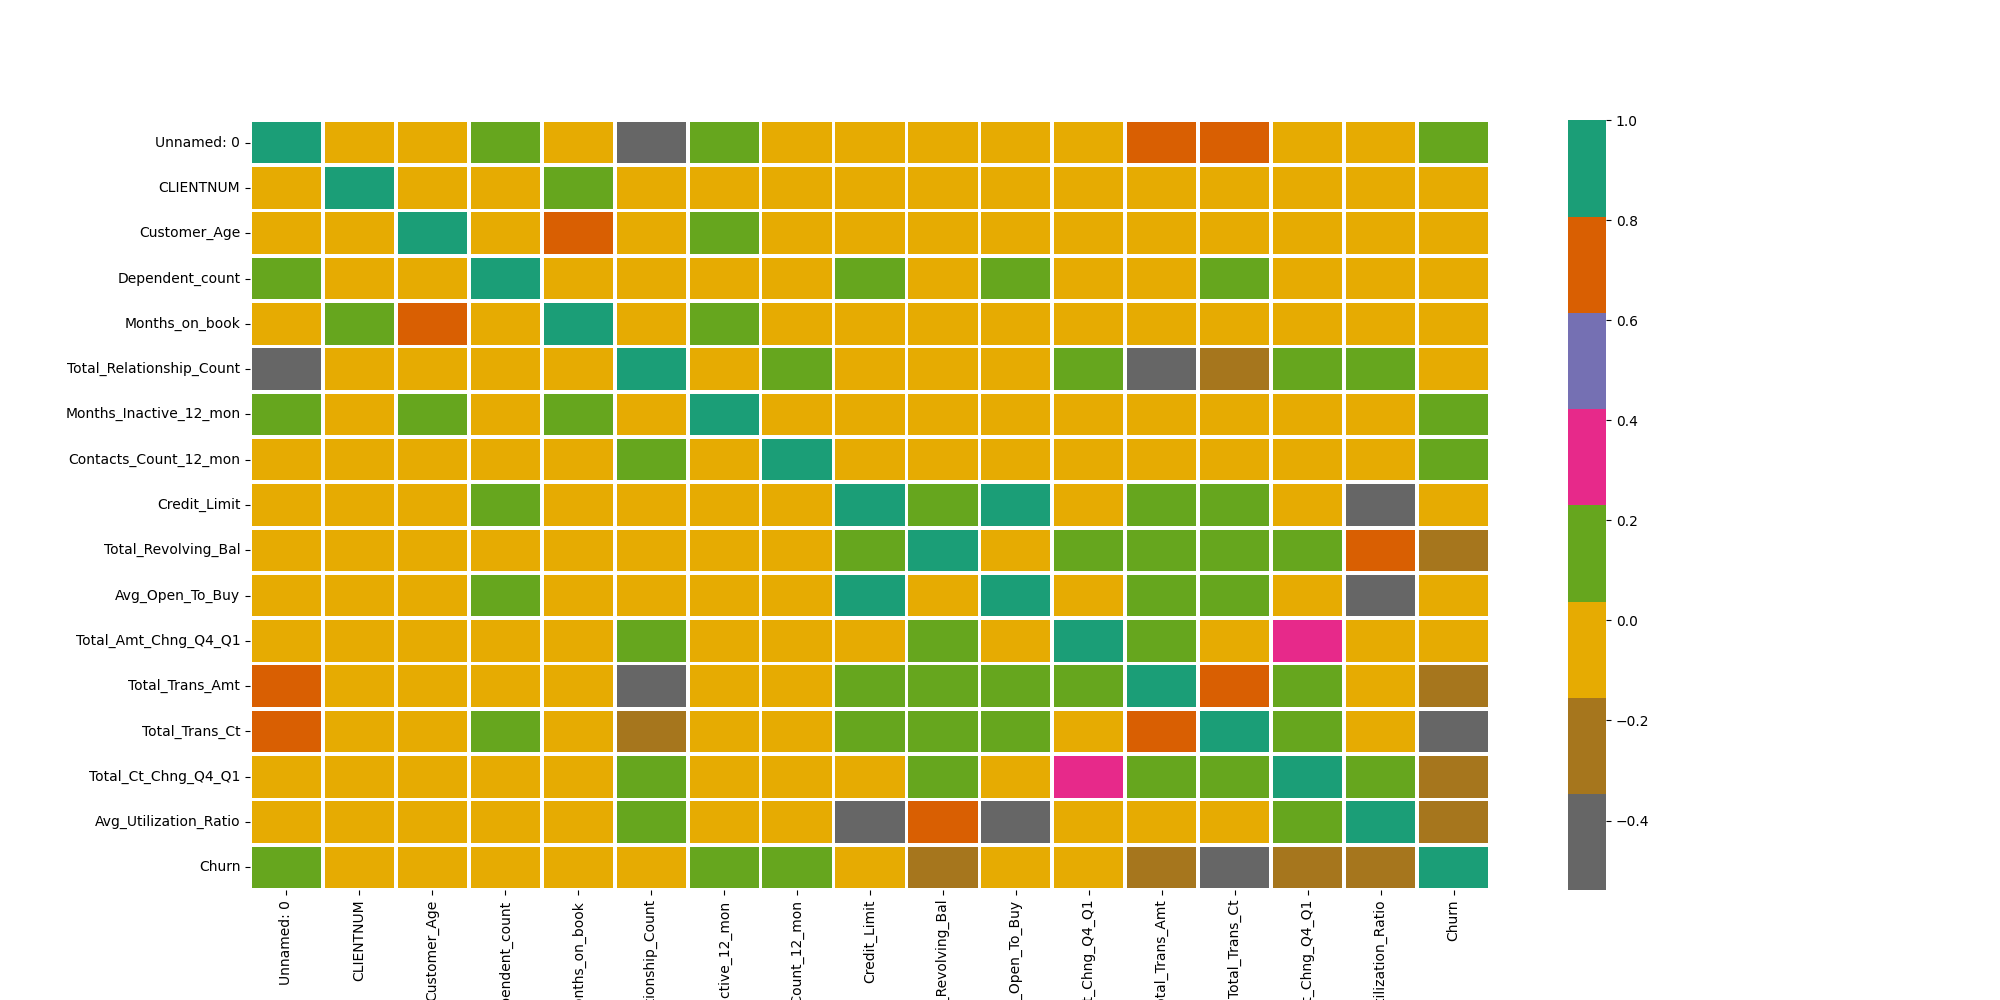
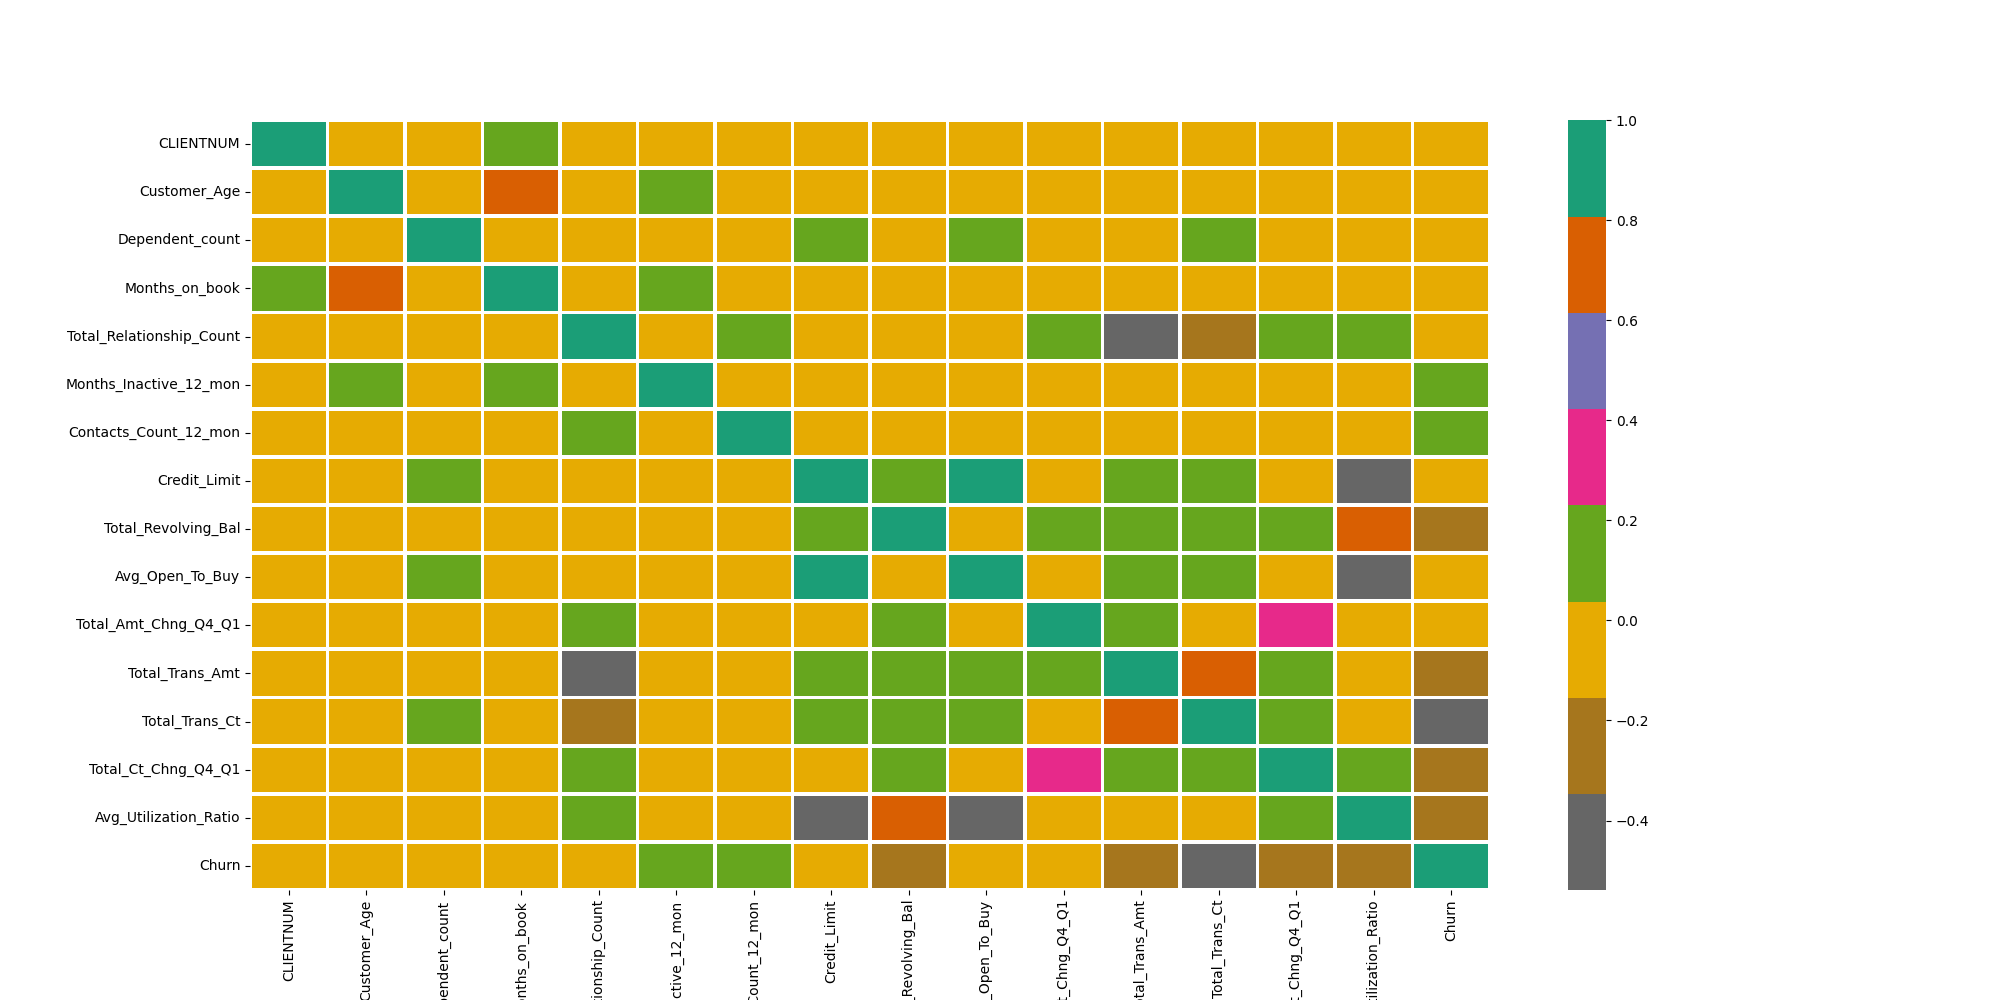
added encoding

Changed region(s): [[0.031, 0.124, 0.744, 1.0], [0.682, 0.899, 0.713, 1.0], [0.062, 0.124, 0.124, 0.155]]

diff --git a/churn_script_logging_and_tests.py b/churn_script_logging_and_tests.py
@@ -11,12 +11,14 @@ Date: 19/4/2025
 import os
 import logging
 from churn_library import import_data, perform_eda, encoder_helper
+import pandas as pd
 
 logging.basicConfig(
     filename='./logs/churn_library.log',
     level = logging.INFO,
     filemode='w',
     format='%(name)s - %(levelname)s - %(message)s')
+
 
 def test_import():
 	'''
@@ -43,12 +45,11 @@ def test_eda():
 	test perform eda function
 	'''
 	df = import_data("./data/bank_data.csv")
+	df = perform_eda(df)
 	if df.isnull().sum().sum() > 0:
 		logging.warning(f"test_eda: dataframe contains {df.isnull().sum().sum()} NaN values")
 	else:
 		logging.info("test_eda: SUCCESS, no NaN values")
-
-	perform_eda(df)
 	# get all file names in folder images/eda:
 	images = os.listdir("./images/eda")
 	for file in ['countplot_marital_status.png', 'dist_total_transaction.png', 'heatmap_all_cols.png', 'hist_churn.png', 'hist_customer_age.png']:
@@ -64,10 +65,20 @@ def test_encoder_helper():
 	test encoder helper
 	'''
 	df = import_data("./data/bank_data.csv")
+	df = perform_eda(df)
+	df_encode = encoder_helper(df)
 	try:
 		df_encode = encoder_helper(df)
+		logging.info(f"test_encoder_helper: SUCCESS, encoding ran")
+		if df_encode.shape[1] <= df.shape[1]:
+			logging.warning(f"test_encoder_helper: encoded df has only {df_encode.shape[1]} columns, i.e. less or equal than original df with {df.shape[1]} columns")
 	except:
-		Print("xx")
+		logging.error(f"test_encoder_helper: encoding did not work")
+	try:
+		pd.testing.assert_frame_equal(df, df_encode[df.columns])
+	except AssertionError:
+		logging.error("encoded dataframe and original df are not equal w.r.t. original columns")
+     
 
 
 def test_perform_feature_engineering(perform_feature_engineering):
@@ -80,7 +91,6 @@ def test_train_models(train_models):
 	'''
 	test train_models
 	'''
-
 
 if __name__ == "__main__":
 	test_import()

diff --git a/churn_library.py b/churn_library.py
@@ -45,7 +45,7 @@ def import_data(pth):
     output:
             df: pandas dataframe
     '''	
-    df = pd.read_csv(fr"{pth}")
+    df = pd.read_csv(fr"{pth}", index_col=0)
     return df
 
 
@@ -110,14 +110,14 @@ def encoder_helper(df, category_lst=['Gender','Education_Level','Marital_Status'
 	'''
 	df_encode = df.copy(deep=True)
 	for cat_col in category_lst:
-		churn_map = dict(df.groupby(cat_col).mean()['Churn'])
-		df[cat_col + response] = df[cat_col].map(churn_map)
+		churn_map = dict(df_encode.groupby(cat_col).mean()['Churn'])
+		df_encode[cat_col +"_"+ response] = df_encode[cat_col].map(churn_map)
   
 	return df_encode
 
 
 
-def perform_feature_engineering(df, response):
+def perform_feature_engineering(df, response="Churn"):
     '''
     input:
               df: pandas dataframe
@@ -129,6 +129,7 @@ def perform_feature_engineering(df, response):
               y_train: y training data
               y_test: y testing data
     '''
+    
 
 def classification_report_image(y_train,
                                 y_test,
@@ -182,8 +183,9 @@ def train_models(X_train, X_test, y_train, y_test):
 
 
 if __name__ == "__main__":
-    # import data
     df = import_data("./data/bank_data.csv")
     eda_df = perform_eda(df)
     df_encode = encoder_helper(eda_df)
-    print(df.head())
+    print(df.shape)
+    print(df_encode.shape)
+    print(df_encode.head())
